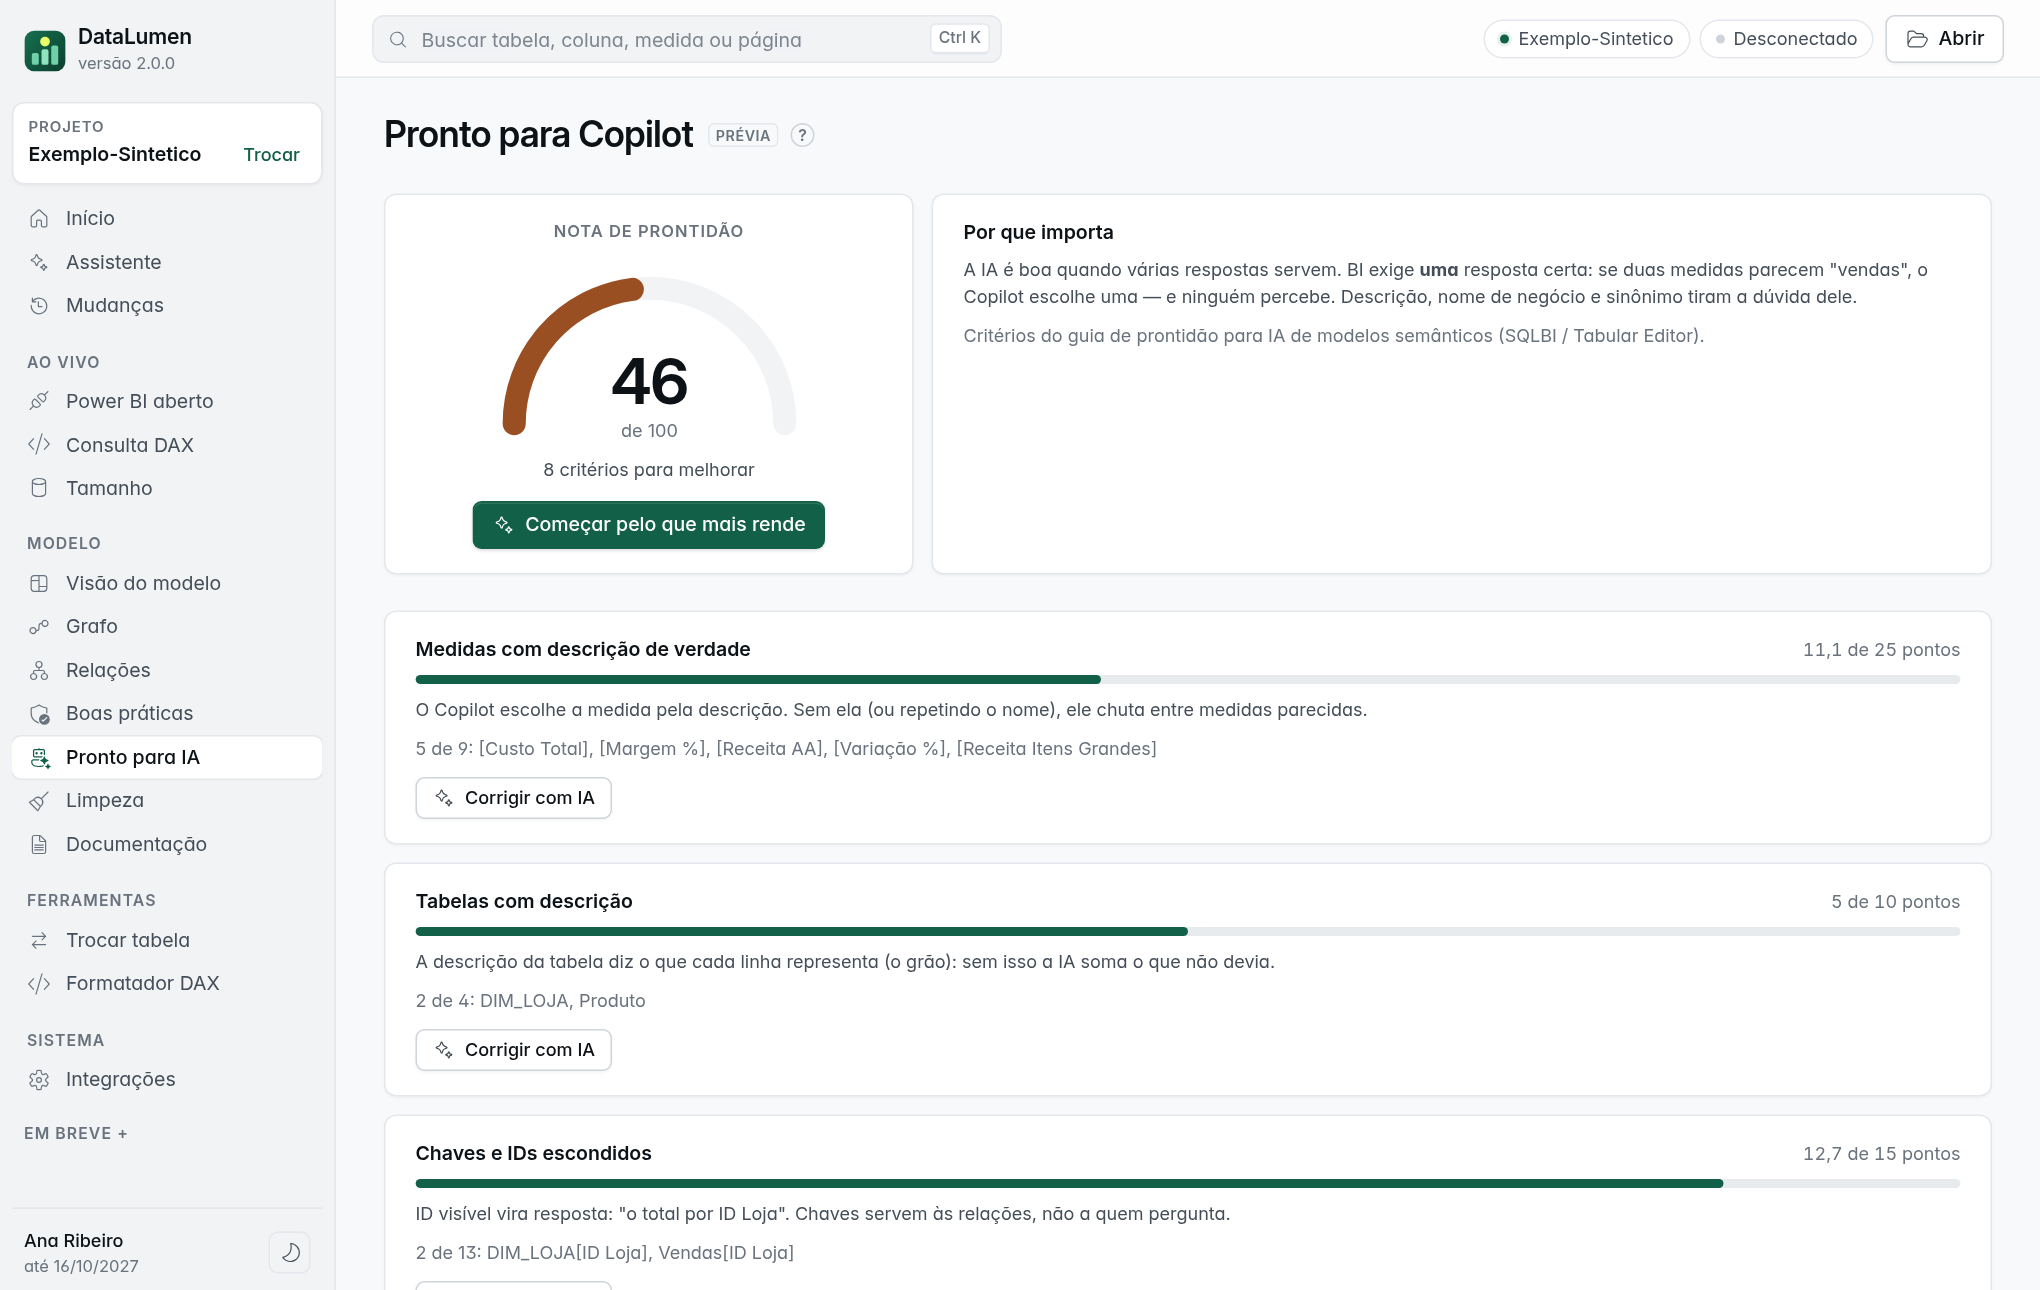
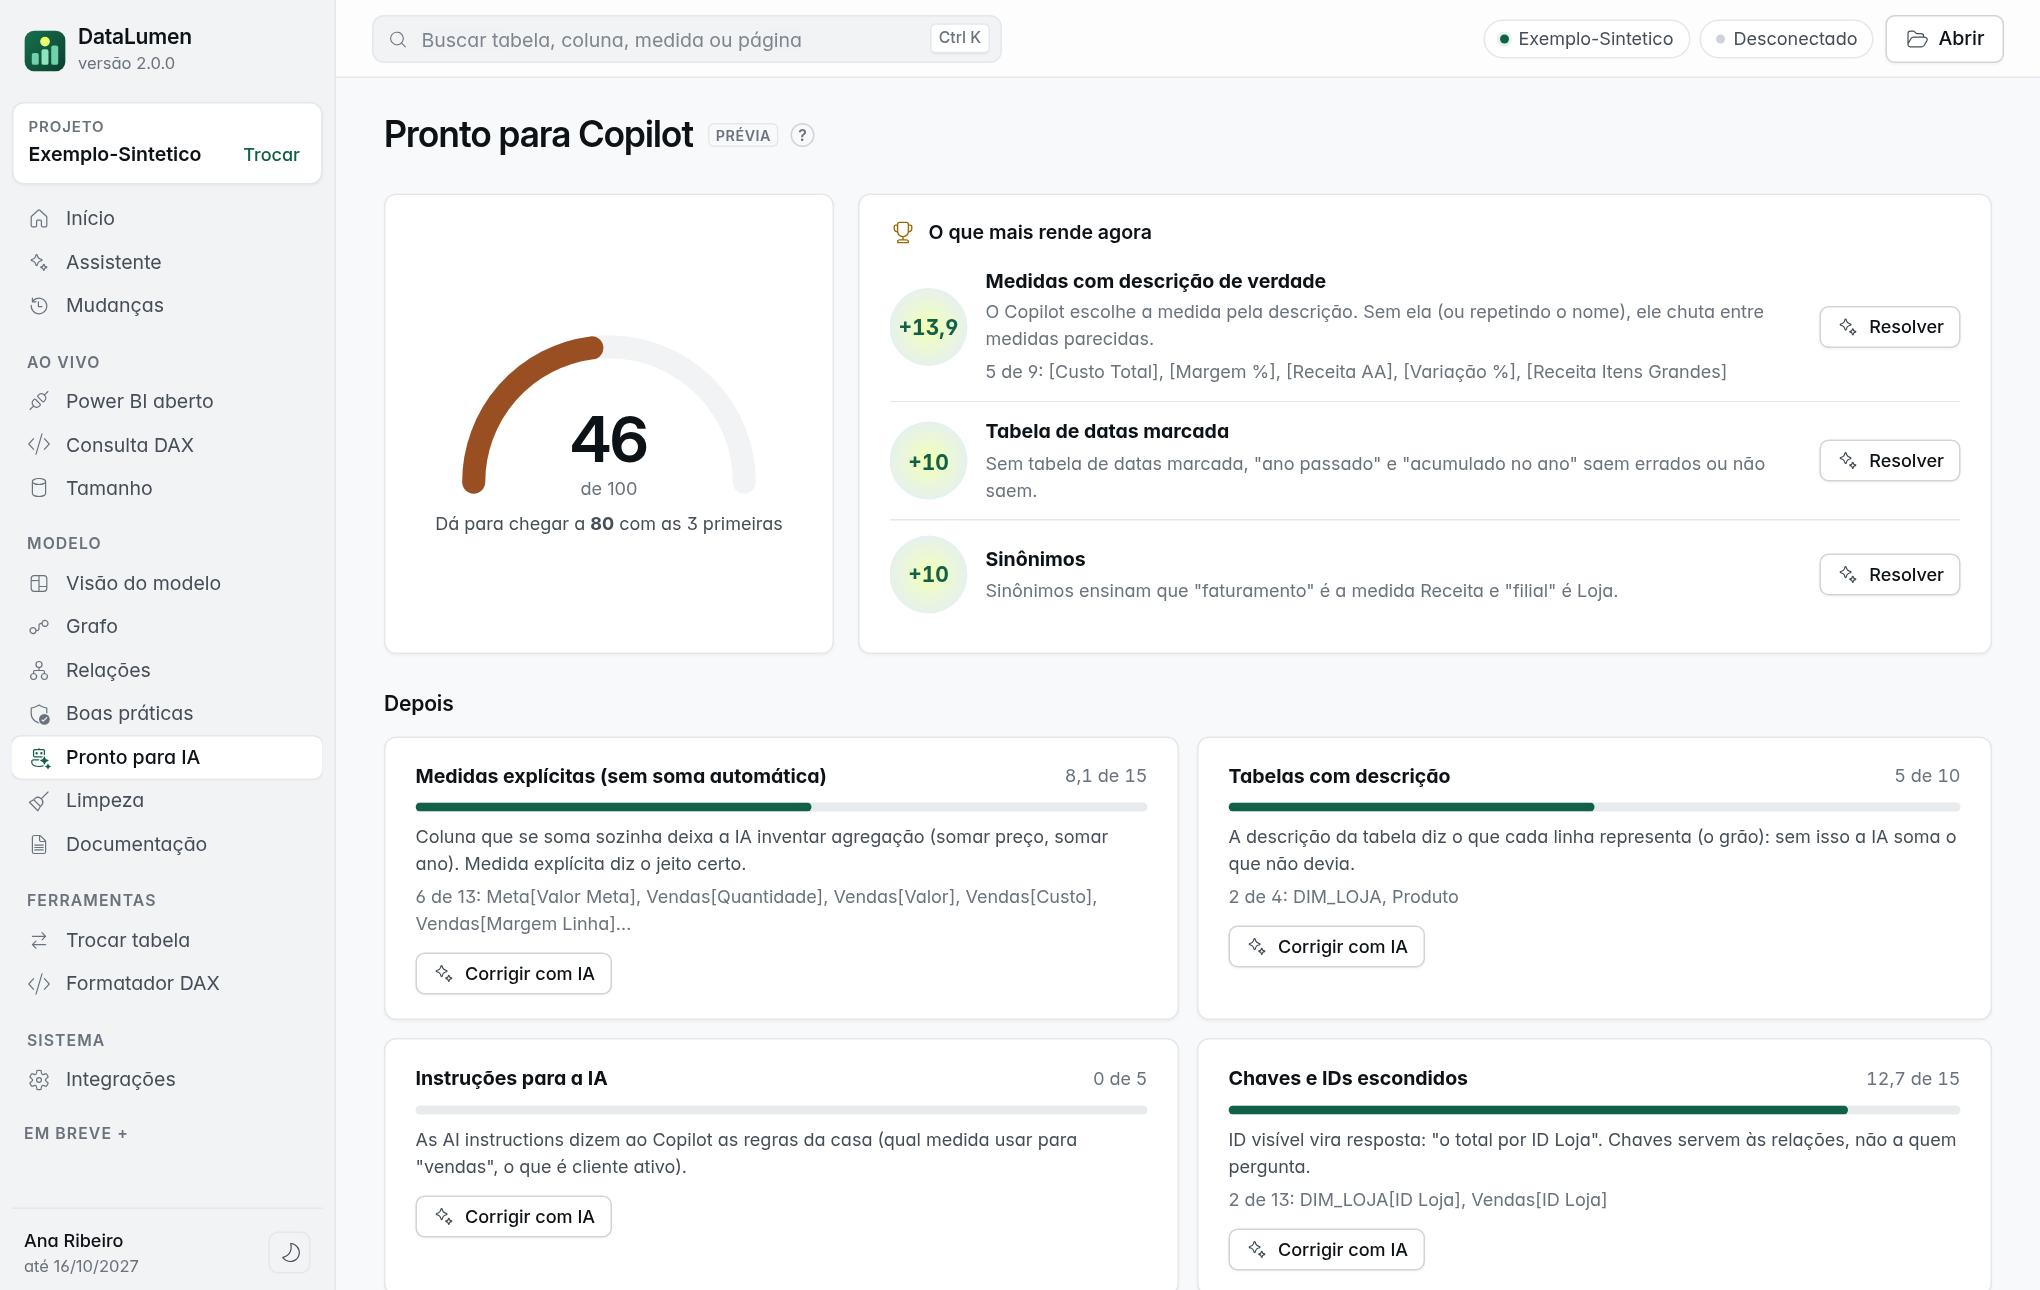
DataLumen: prévia da troca redesenhada

diff --git a/datalumen/previa/index.html b/datalumen/previa/index.html
@@ -14,7 +14,7 @@ h1{font-size:24px}figure{margin:0 0 28px}img{width:100%;border-radius:10px;borde
 <figure><a href="pv-10-doc.png"><img src="pv-10-doc.png" alt=""></a><figcaption>Documentação: Documentar o que falta com IA, tipos em português, nomes abrem a ficha</figcaption></figure>
 <figure><a href="pv-11-mudancas.png"><img src="pv-11-mudancas.png" alt=""></a><figcaption>Mudanças: Revisar com IA antes de salvar a versão</figcaption></figure>
 <figure><a href="pv-12-tamanho.png"><img src="pv-12-tamanho.png" alt=""></a><figcaption>Tamanho do modelo: Resolver com IA em cada coluna pesada</figcaption></figure>
-<figure><a href="pv-13-troca.png"><img src="pv-13-troca.png" alt=""></a><figcaption>Trocar tabela: Excel (Import) → SQL em DirectQuery, com colunas casadas, relações, dados e o aviso do que quebra</figcaption></figure>
-<figure><a href="pv-14-troca-previa.png"><img src="pv-14-troca-previa.png" alt=""></a><figcaption>Trocar tabela: nome final e prévia do que vai mudar</figcaption></figure>
-<figure><a href="pv-15-copilot.png"><img src="pv-15-copilot.png" alt=""></a><figcaption>Pronto para Copilot (Prévia): nota de prontidão para IA com Corrigir com IA</figcaption></figure>
+<figure><a href="pv-13-troca.png"><img src="pv-13-troca.png" alt=""></a><figcaption>Trocar tabela: o app acha sozinho a troca provável (Lojas SQL substitui DIM_LOJA) e mostra a origem de cada tabela</figcaption></figure>
+<figure><a href="pv-14-troca-previa.png"><img src="pv-14-troca-previa.png" alt=""></a><figcaption>Trocar tabela: checklist (colunas, tipos, relações, dados, modo), o que quebra em DirectQuery e Antes → Depois com o botão</figcaption></figure>
+<figure><a href="pv-15-copilot.png"><img src="pv-15-copilot.png" alt=""></a><figcaption>Pronto para Copilot (Prévia): a nota e as 3 melhorias que mais rendem</figcaption></figure>
 </main></body></html>
